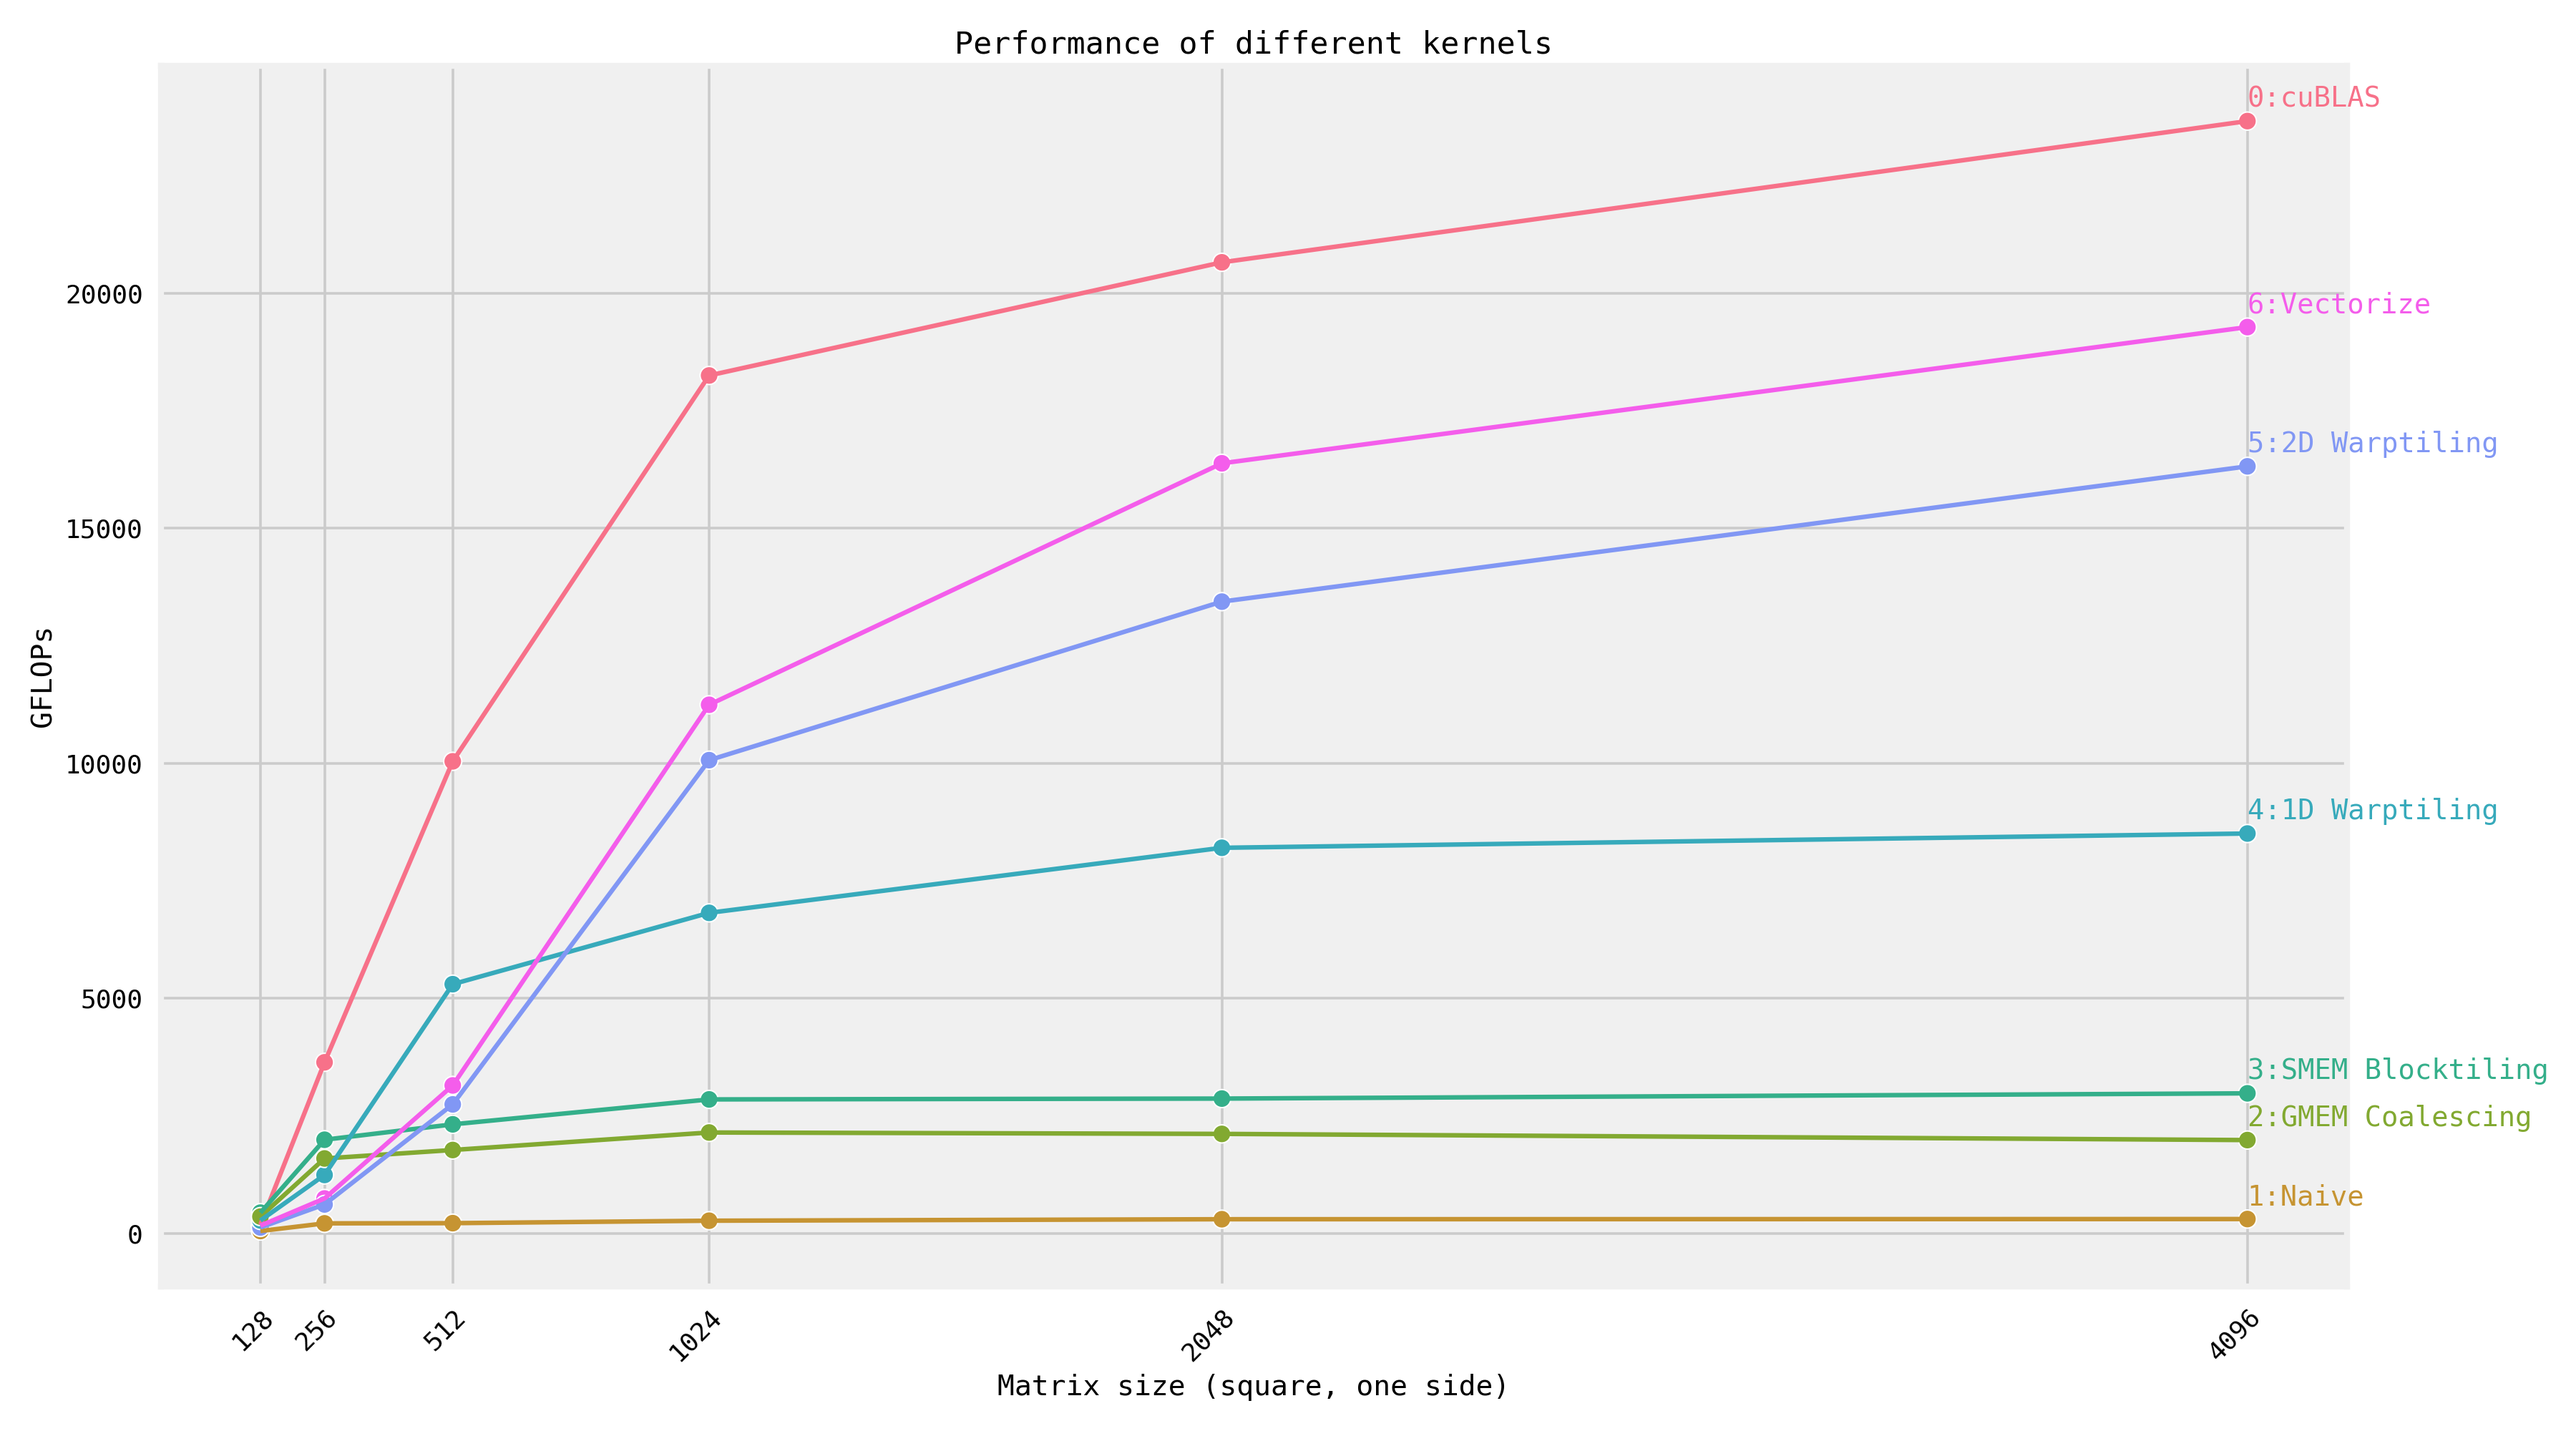
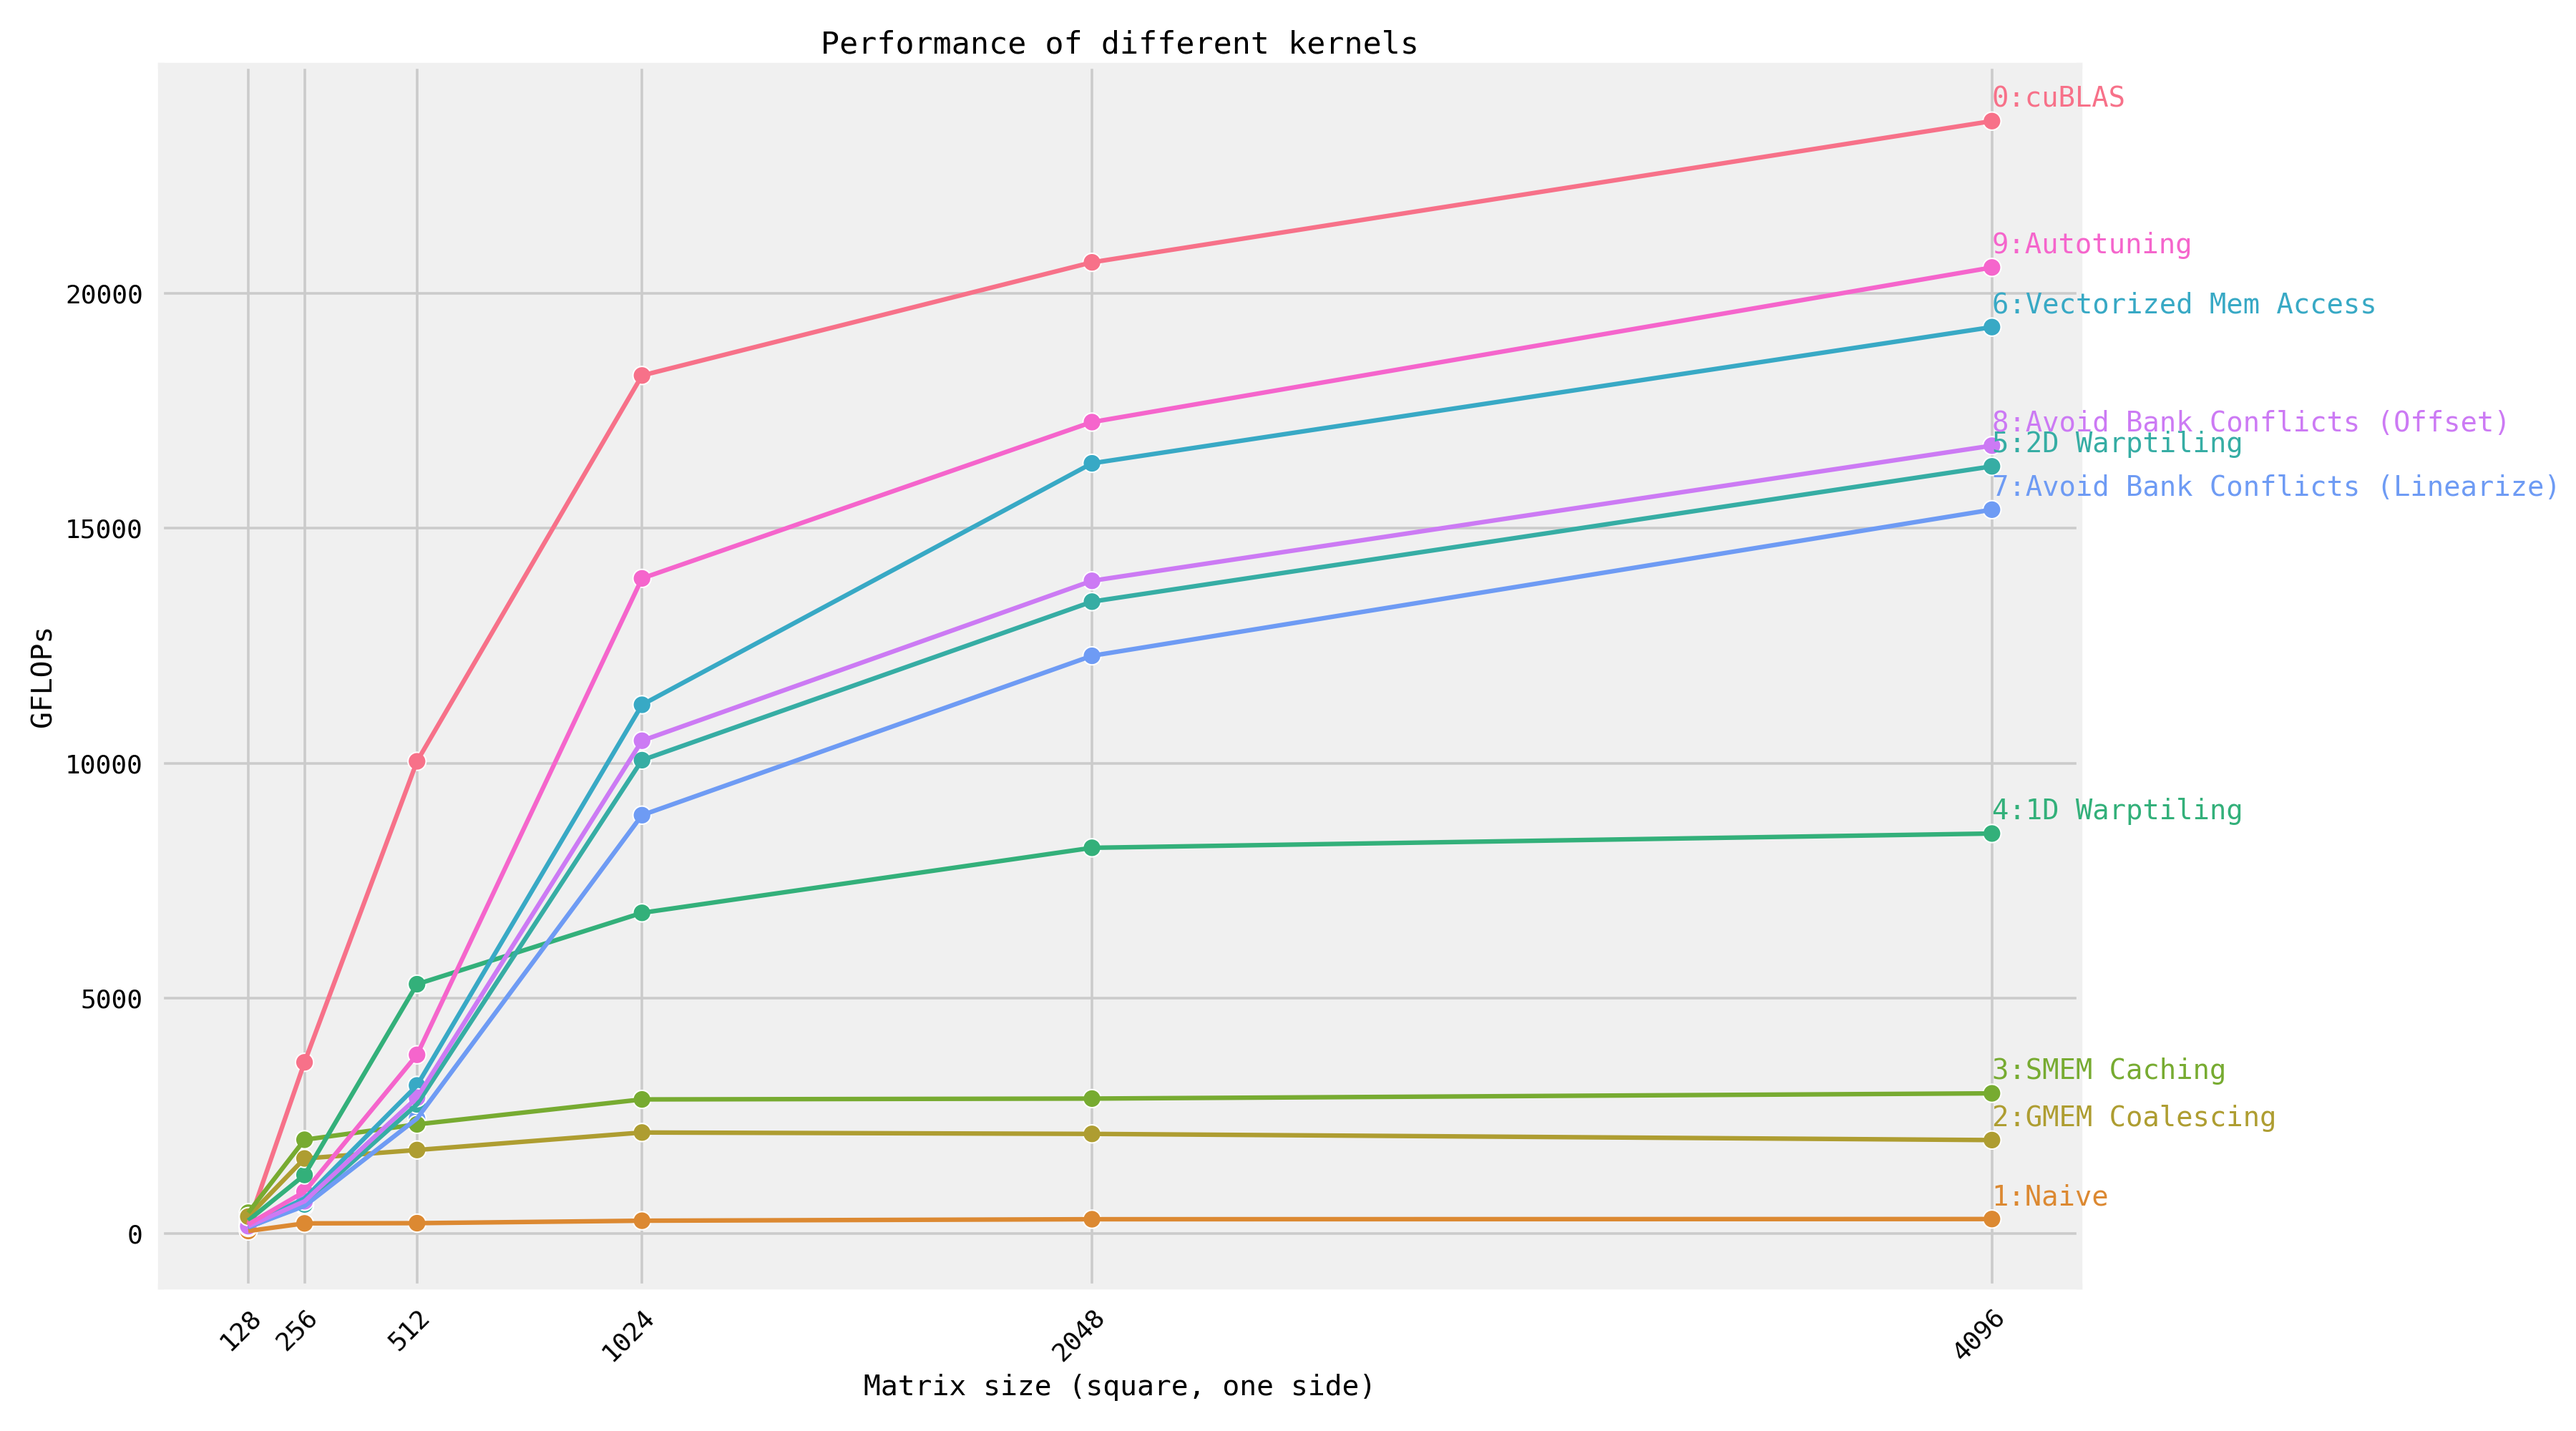
Update results

diff --git a/plot_benchmark_results.py b/plot_benchmark_results.py
@@ -27,8 +27,8 @@ KERNEL_NAMES = {
     4: "1D Warptiling",
     5: "2D Warptiling",
     6: "Vectorized Mem Access",
-    7: "Avoid Bank Conflicts",
-    8: "Double Buffering",
+    7: "Avoid Bank Conflicts (Linearize)",
+    8: "Avoid Bank Conflicts (Offset)",
     9: "Autotuning",
 }
 

diff --git a/README.md b/README.md
@@ -12,15 +12,18 @@ Running the kernels on a NVIDIA A6000:
 
 GFLOPs at matrix size 4092x4092:
 <!-- benchmark_results -->
-| Kernel              |   GFLOPs | Performance relative to cuBLAS   |
-|:--------------------|---------:|:---------------------------------|
-| 1: Naive            |    307.2 | 1.3%                             |
-| 2: GMEM Coalescing  |   1987.2 | 8.4%                             |
-| 3: SMEM Blocktiling |   2981.3 | 12.6%                            |
-| 4: 1D Warptiling    |   8508.3 | 36.0%                            |
-| 5: 2D Warptiling    |  16319   | 69.0%                            |
-| 6: Vectorize        |  19281.4 | 81.5%                            |
-| 0: cuBLAS           |  23663.6 | 100.0%                           |
+| Kernel                              |   GFLOPs | Performance relative to cuBLAS   |
+|:------------------------------------|---------:|:---------------------------------|
+| 1: Naive                            |    307.2 | 1.3%                             |
+| 2: GMEM Coalescing                  |   1987.2 | 8.4%                             |
+| 3: SMEM Caching                     |   2981.3 | 12.6%                            |
+| 4: 1D Warptiling                    |   8508.3 | 36.0%                            |
+| 7: Avoid Bank Conflicts (Linearize) |  15397.4 | 65.1%                            |
+| 5: 2D Warptiling                    |  16319   | 69.0%                            |
+| 8: Avoid Bank Conflicts (Offset)    |  16759.5 | 70.8%                            |
+| 6: Vectorized Mem Access            |  19281.4 | 81.5%                            |
+| 9: Autotuning                       |  20549.8 | 86.8%                            |
+| 0: cuBLAS                           |  23663.6 | 100.0%                           |
 <!-- benchmark_results -->
 
 ## Setup
